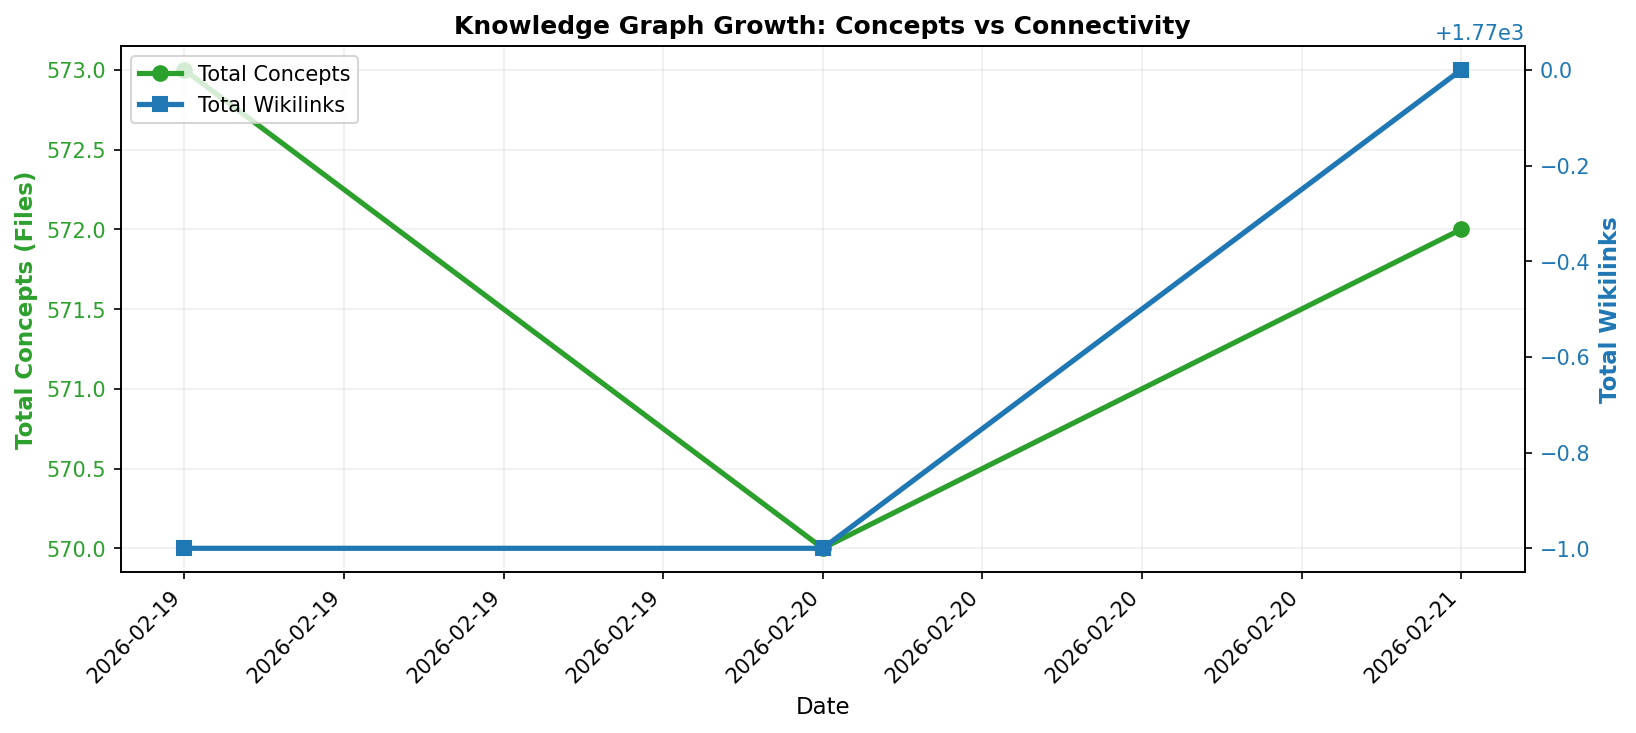
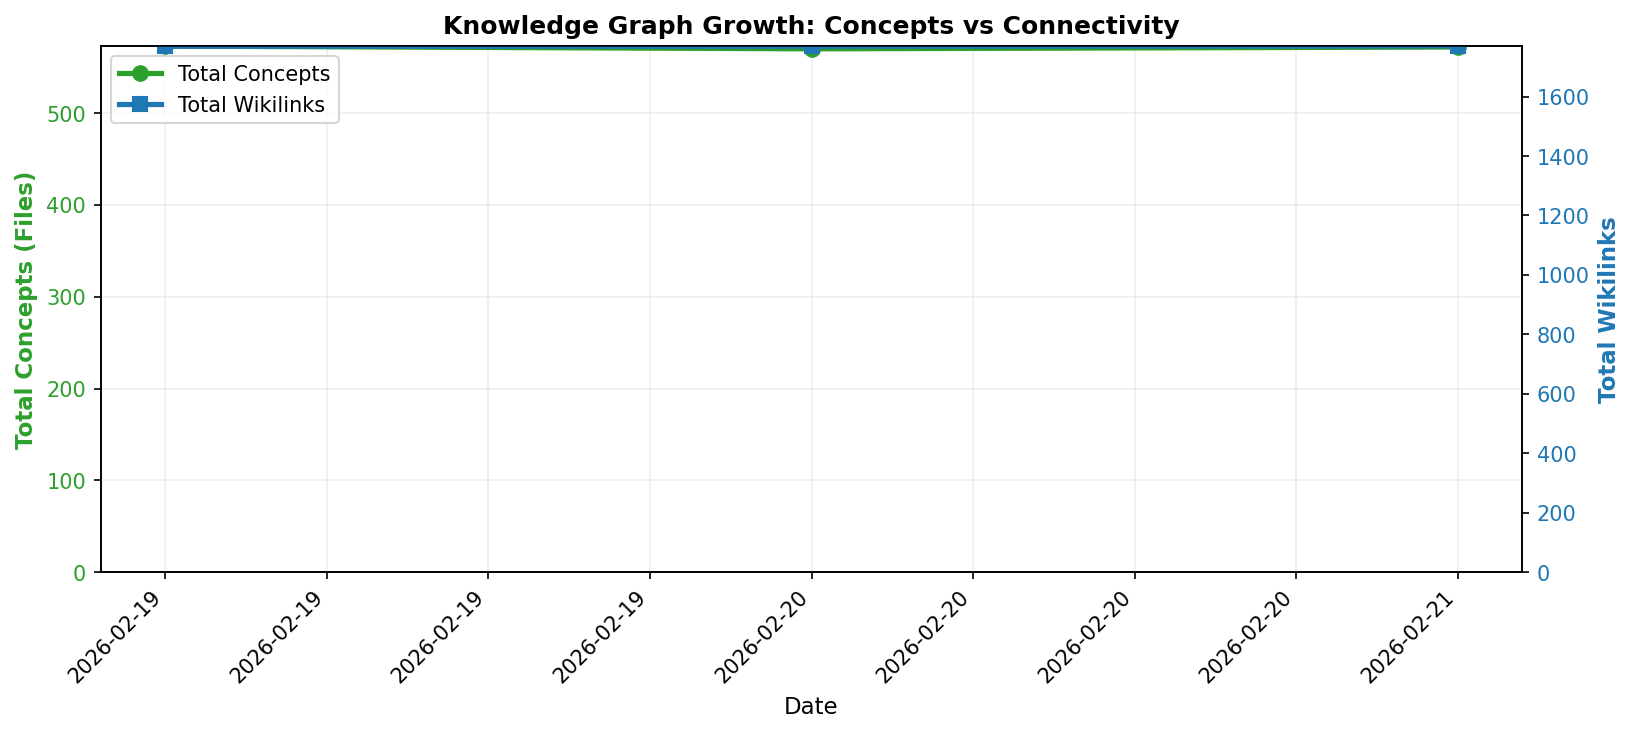
Fix chart y-axis scale: start from 0 and disable offset notation
The right y-axis (wikilinks) was showing misleading scale labels like
-1.0 to 0.0 with a +1.77e3 offset instead of actual values. Both axes
now start from 0 and use plain number formatting.

https://claude.ai/code/session_01YBDbL1VudroUNcqJGhcDZo

diff --git a/scripts/count_richness.py b/scripts/count_richness.py
@@ -158,6 +158,8 @@ def plot_stats(data):
 
     line1 = ax1.plot(dates, total_files, color=color1, marker='o', linewidth=2.5, markersize=7, label='Total Concepts')
 
+    ax1.set_ylim(bottom=0)
+    ax1.ticklabel_format(axis='y', useOffset=False, style='plain')
     ax1.tick_params(axis='y', labelcolor=color1)
     ax1.grid(True, alpha=0.2)
 
@@ -168,6 +170,8 @@ def plot_stats(data):
 
     line2 = ax2.plot(dates, links, color=color2, marker='s', linewidth=2.5, markersize=7, label='Total Wikilinks')
 
+    ax2.set_ylim(bottom=0)
+    ax2.ticklabel_format(axis='y', useOffset=False, style='plain')
     ax2.tick_params(axis='y', labelcolor=color2)
 
     # Format x-axis dates
